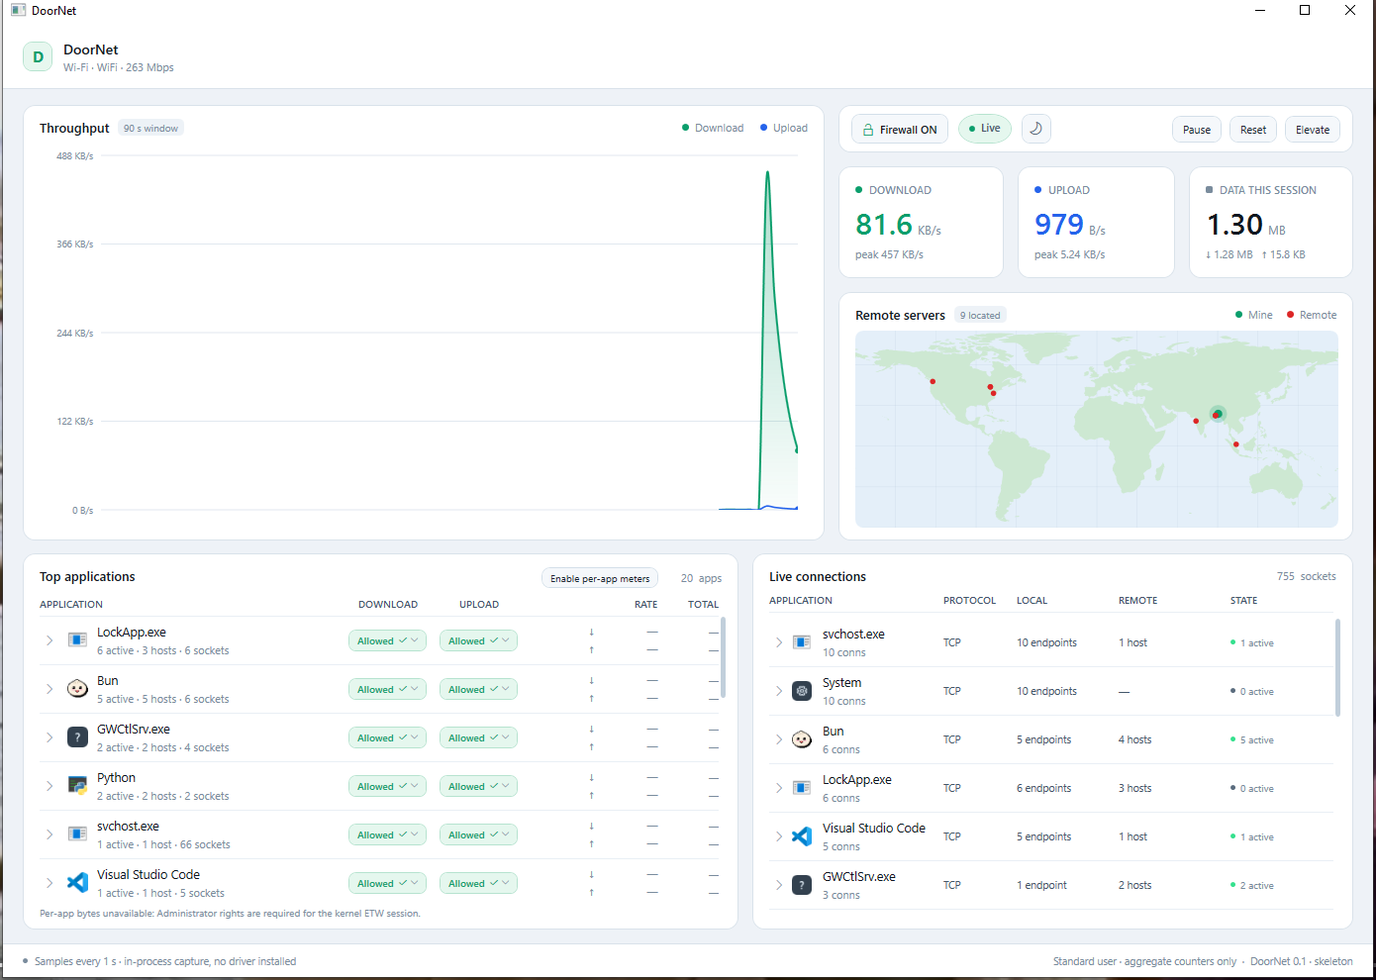
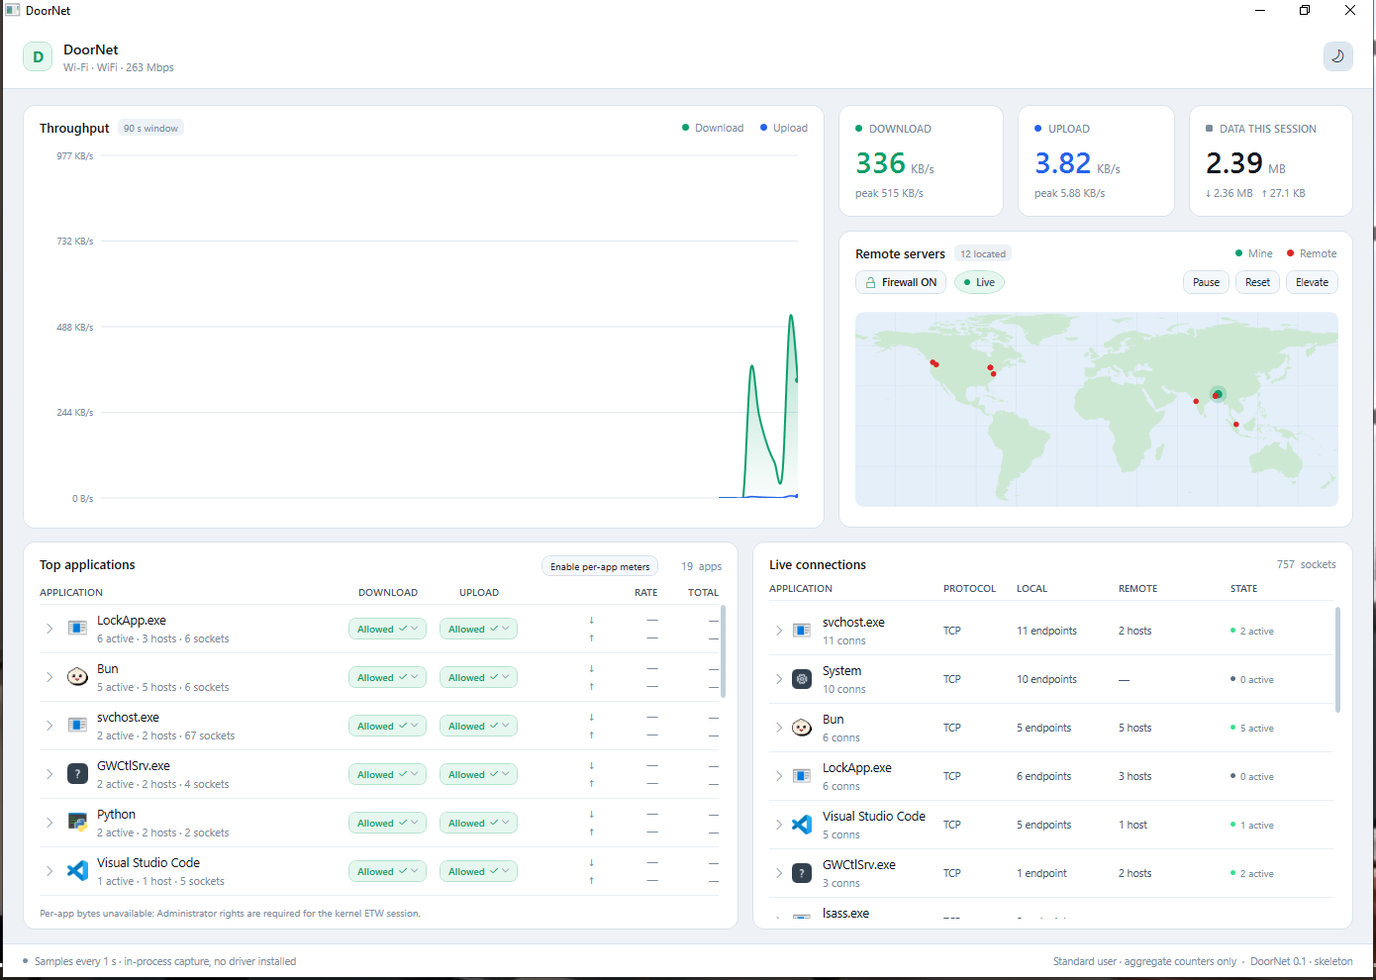
Put the session controls above the map and the theme toggle back in the header
The bridge button row above the meters is gone: the meters return to the top of the right column, and the firewall switch, live pill and pause/reset/elevate actions now sit in a compact toolbar directly above the world map, inside the Remote servers card. The map keeps its centred 360:145 projection with side margins. The theme toggle is back at the far right of the header so it stays reachable from every future tab.

diff --git a/src/DoorNet.App/MainWindow.xaml b/src/DoorNet.App/MainWindow.xaml
@@ -57,6 +57,16 @@
                     </StackPanel>
                 </StackPanel>
 
+                <!-- Theme toggle stays in the header: every tab needs it. -->
+                <Button Grid.Column="2"
+                        Style="{StaticResource IconButton}"
+                        Content="{Binding ThemeGlyph}"
+                        ToolTip="{Binding ThemeTooltip}"
+                        Command="{Binding ToggleThemeCommand}"
+                        AutomationProperties.AutomationId="ThemeToggle"
+                        AutomationProperties.Name="Switch theme"
+                        VerticalAlignment="Center" />
+
             </Grid>
         </Border>
 
@@ -118,128 +128,7 @@
                         <RowDefinition Height="Auto" />
                         <RowDefinition Height="*" />
                     </Grid.RowDefinitions>
-                    <Border Grid.Row="0" Style="{StaticResource Card}" Padding="12,8">
-                        <Grid>
-                            <Grid.ColumnDefinitions>
-                                <ColumnDefinition Width="Auto" />
-                                <ColumnDefinition Width="*" />
-                            </Grid.ColumnDefinitions>
-
-                            <StackPanel Grid.Column="0" Orientation="Horizontal" VerticalAlignment="Center">
-                                <Button Command="{Binding ToggleFirewallCommand}"
-                                        Style="{StaticResource GhostButton}"
-                                        Padding="10,6"
-                                        ToolTip="{Binding FirewallTooltip}">
-                                    <StackPanel Orientation="Horizontal">
-                                        <TextBlock Text="&#xE785;"
-                                                   FontFamily="{StaticResource GlyphFont}"
-                                                   FontSize="12"
-                                                   Margin="0,0,6,0"
-                                                   VerticalAlignment="Center">
-                                            <TextBlock.Style>
-                                                <Style TargetType="TextBlock">
-                                                    <Setter Property="Foreground" Value="{DynamicResource TextMutedBrush}" />
-                                                    <Style.Triggers>
-                                                        <DataTrigger Binding="{Binding IsFirewallEnabled}" Value="True">
-                                                            <Setter Property="Foreground" Value="{DynamicResource DownloadBrush}" />
-                                                        </DataTrigger>
-                                                    </Style.Triggers>
-                                                </Style>
-                                            </TextBlock.Style>
-                                        </TextBlock>
-                                        <TextBlock Text="{Binding FirewallStateText}"
-                                                   FontSize="11"
-                                                   FontWeight="SemiBold"
-                                                   VerticalAlignment="Center">
-                                            <TextBlock.Style>
-                                                <Style TargetType="TextBlock">
-                                                    <Setter Property="Foreground" Value="{DynamicResource TextMutedBrush}" />
-                                                    <Style.Triggers>
-                                                        <DataTrigger Binding="{Binding IsFirewallEnabled}" Value="True">
-                                                            <Setter Property="Foreground" Value="{DynamicResource TextPrimaryBrush}" />
-                                                        </DataTrigger>
-                                                    </Style.Triggers>
-                                                </Style>
-                                            </TextBlock.Style>
-                                        </TextBlock>
-                                    </StackPanel>
-                                </Button>
-
-                                <Border Padding="10,5"
-                                        CornerRadius="20"
-                                        BorderThickness="1"
-                                        Margin="10,0,0,0"
-                                        ToolTip="{Binding LastError}">
-                                    <Border.Style>
-                                        <Style TargetType="Border">
-                                            <Setter Property="Background" Value="{DynamicResource LivePillBrush}" />
-                                            <Setter Property="BorderBrush" Value="{DynamicResource LivePillBorderBrush}" />
-                                            <Style.Triggers>
-                                                <DataTrigger Binding="{Binding IsCapturing}" Value="False">
-                                                    <Setter Property="Background" Value="{DynamicResource PausedPillBrush}" />
-                                                    <Setter Property="BorderBrush" Value="{DynamicResource PausedPillBorderBrush}" />
-                                                </DataTrigger>
-                                            </Style.Triggers>
-                                        </Style>
-                                    </Border.Style>
-                                    <StackPanel Orientation="Horizontal">
-                                        <Ellipse Width="6" Height="6" Margin="0,0,6,0" VerticalAlignment="Center">
-                                            <Ellipse.Style>
-                                                <Style TargetType="Ellipse">
-                                                    <Setter Property="Fill" Value="{DynamicResource DownloadBrush}" />
-                                                    <Style.Triggers>
-                                                        <DataTrigger Binding="{Binding IsCapturing}" Value="False">
-                                                            <Setter Property="Fill" Value="{DynamicResource TextMutedBrush}" />
-                                                        </DataTrigger>
-                                                    </Style.Triggers>
-                                                </Style>
-                                            </Ellipse.Style>
-                                        </Ellipse>
-                                        <TextBlock Text="{Binding StatusText}"
-                                                   FontSize="11"
-                                                   FontWeight="SemiBold"
-                                                   Foreground="{DynamicResource TextSecondaryBrush}" />
-                                    </StackPanel>
-                                </Border>
-
-                                <Button Style="{StaticResource IconButton}"
-                                        Content="{Binding ThemeGlyph}"
-                                        ToolTip="{Binding ThemeTooltip}"
-                                        Command="{Binding ToggleThemeCommand}"
-                                        AutomationProperties.AutomationId="ThemeToggle"
-                                        AutomationProperties.Name="Switch theme"
-                                        Margin="10,0,0,0" />
-                            </StackPanel>
-
-                            <StackPanel Grid.Column="1"
-                                        Orientation="Horizontal"
-                                        HorizontalAlignment="Right"
-                                        VerticalAlignment="Center"
-                                        Margin="10,0,0,0">
-                                <Button Content="{Binding CaptureButtonLabel}"
-                                        Command="{Binding ToggleCaptureCommand}"
-                                        Style="{StaticResource GhostButton}"
-                                        FontSize="11"
-                                        Padding="10,5" />
-                                <Button Content="Reset"
-                                        Command="{Binding ResetSessionCommand}"
-                                        Style="{StaticResource GhostButton}"
-                                        FontSize="11"
-                                        Padding="10,5"
-                                        Margin="8,0,0,0"
-                                        ToolTip="Reset the session totals" />
-                                <Button Content="Elevate"
-                                        Command="{Binding RestartElevatedCommand}"
-                                        Style="{StaticResource GhostButton}"
-                                        FontSize="11"
-                                        Padding="10,5"
-                                        Margin="8,0,0,0"
-                                        ToolTip="Restart with administrator rights to measure per-app byte usage"
-                                        Visibility="{Binding CanOfferElevation, Converter={StaticResource BoolToVis}}" />
-                            </StackPanel>
-                        </Grid>
-                    </Border>
-                    <Grid Grid.Row="1" Margin="0,14,0,0">
+                    <Grid Grid.Row="0">
                     <Grid.ColumnDefinitions>
                         <ColumnDefinition Width="*" />
                         <ColumnDefinition Width="*" />
@@ -335,9 +224,10 @@
                             </Border>
                 </Grid>
 
-                    <Border Grid.Row="2" Style="{StaticResource Card}" Margin="0,14,0,0" MinHeight="250" Padding="16,13,14,12">
+                    <Border Grid.Row="1" Style="{StaticResource Card}" Margin="0,14,0,0" MinHeight="300" Padding="16,13,14,12">
                         <Grid>
                             <Grid.RowDefinitions>
+                                <RowDefinition Height="Auto" />
                                 <RowDefinition Height="Auto" />
                                 <RowDefinition Height="*" />
                             </Grid.RowDefinitions>
@@ -357,7 +247,114 @@
                                 </StackPanel>
                             </Grid>
     
-                            <controls:WorldMapView Grid.Row="1"
+                            <!-- Session controls sit above the world, using the card's spare width -->
+                            <Grid Grid.Row="1" Margin="0,9,0,2">
+                                <StackPanel Orientation="Horizontal" VerticalAlignment="Center">
+                                    <Button Command="{Binding ToggleFirewallCommand}"
+                                            Style="{StaticResource GhostButton}"
+                                            FontSize="10.5"
+                                            Padding="9,4"
+                                            ToolTip="{Binding FirewallTooltip}">
+                                        <StackPanel Orientation="Horizontal">
+                                            <TextBlock Text="&#xE785;"
+                                                       FontFamily="{StaticResource GlyphFont}"
+                                                       FontSize="11"
+                                                       Margin="0,0,6,0"
+                                                       VerticalAlignment="Center">
+                                                <TextBlock.Style>
+                                                    <Style TargetType="TextBlock">
+                                                        <Setter Property="Foreground" Value="{DynamicResource TextMutedBrush}" />
+                                                        <Style.Triggers>
+                                                            <DataTrigger Binding="{Binding IsFirewallEnabled}" Value="True">
+                                                                <Setter Property="Foreground" Value="{DynamicResource DownloadBrush}" />
+                                                            </DataTrigger>
+                                                        </Style.Triggers>
+                                                    </Style>
+                                                </TextBlock.Style>
+                                            </TextBlock>
+                                            <TextBlock Text="{Binding FirewallStateText}"
+                                                       FontSize="10.5"
+                                                       FontWeight="SemiBold"
+                                                       VerticalAlignment="Center">
+                                                <TextBlock.Style>
+                                                    <Style TargetType="TextBlock">
+                                                        <Setter Property="Foreground" Value="{DynamicResource TextMutedBrush}" />
+                                                        <Style.Triggers>
+                                                            <DataTrigger Binding="{Binding IsFirewallEnabled}" Value="True">
+                                                                <Setter Property="Foreground" Value="{DynamicResource TextPrimaryBrush}" />
+                                                            </DataTrigger>
+                                                        </Style.Triggers>
+                                                    </Style>
+                                                </TextBlock.Style>
+                                            </TextBlock>
+                                        </StackPanel>
+                                    </Button>
+
+                                    <Border Padding="9,4"
+                                            CornerRadius="20"
+                                            BorderThickness="1"
+                                            Margin="8,0,0,0"
+                                            ToolTip="{Binding LastError}">
+                                        <Border.Style>
+                                            <Style TargetType="Border">
+                                                <Setter Property="Background" Value="{DynamicResource LivePillBrush}" />
+                                                <Setter Property="BorderBrush" Value="{DynamicResource LivePillBorderBrush}" />
+                                                <Style.Triggers>
+                                                    <DataTrigger Binding="{Binding IsCapturing}" Value="False">
+                                                        <Setter Property="Background" Value="{DynamicResource PausedPillBrush}" />
+                                                        <Setter Property="BorderBrush" Value="{DynamicResource PausedPillBorderBrush}" />
+                                                    </DataTrigger>
+                                                </Style.Triggers>
+                                            </Style>
+                                        </Border.Style>
+                                        <StackPanel Orientation="Horizontal">
+                                            <Ellipse Width="6" Height="6" Margin="0,0,6,0" VerticalAlignment="Center">
+                                                <Ellipse.Style>
+                                                    <Style TargetType="Ellipse">
+                                                        <Setter Property="Fill" Value="{DynamicResource DownloadBrush}" />
+                                                        <Style.Triggers>
+                                                            <DataTrigger Binding="{Binding IsCapturing}" Value="False">
+                                                                <Setter Property="Fill" Value="{DynamicResource TextMutedBrush}" />
+                                                            </DataTrigger>
+                                                        </Style.Triggers>
+                                                    </Style>
+                                                </Ellipse.Style>
+                                            </Ellipse>
+                                            <TextBlock Text="{Binding StatusText}"
+                                                       FontSize="10.5"
+                                                       FontWeight="SemiBold"
+                                                       Foreground="{DynamicResource TextSecondaryBrush}" />
+                                        </StackPanel>
+                                    </Border>
+                                </StackPanel>
+
+                                <StackPanel Orientation="Horizontal"
+                                            HorizontalAlignment="Right"
+                                            VerticalAlignment="Center">
+                                    <Button Content="{Binding CaptureButtonLabel}"
+                                            Command="{Binding ToggleCaptureCommand}"
+                                            Style="{StaticResource GhostButton}"
+                                            FontSize="10.5"
+                                            Padding="9,4" />
+                                    <Button Content="Reset"
+                                            Command="{Binding ResetSessionCommand}"
+                                            Style="{StaticResource GhostButton}"
+                                            FontSize="10.5"
+                                            Padding="9,4"
+                                            Margin="6,0,0,0"
+                                            ToolTip="Reset the session totals" />
+                                    <Button Content="Elevate"
+                                            Command="{Binding RestartElevatedCommand}"
+                                            Style="{StaticResource GhostButton}"
+                                            FontSize="10.5"
+                                            Padding="9,4"
+                                            Margin="6,0,0,0"
+                                            ToolTip="Restart with administrator rights to measure per-app byte usage"
+                                            Visibility="{Binding CanOfferElevation, Converter={StaticResource BoolToVis}}" />
+                                </StackPanel>
+                            </Grid>
+
+                            <controls:WorldMapView Grid.Row="2"
                                                    Markers="{Binding MapMarkers}"
                                                    Margin="0,8,0,0"
                                                    LandBrush="{DynamicResource MapLandBrush}"

diff --git a/src/DoorNet.App/Controls/WorldMapView.cs b/src/DoorNet.App/Controls/WorldMapView.cs
@@ -98,32 +98,22 @@ public sealed class WorldMapView : FrameworkElement
 
         var dpi = VisualTreeHelper.GetDpi(this).PixelsPerDip;
 
-        // Fill the card edge to edge. Rather than letterboxing the fixed world band, derive
-        // the visible latitudes from the aspect ratio - a wider card trades polar margin for
-        // equatorial detail, so there is never dead space left or right of the map.
-        var mapRect = new Rect(0, 0, width, height);
-        var latSpan = Math.Clamp(360.0 * height / width, 70, FixedLatTop - FixedLatBottom);
-        var latBottom = Math.Max(-58.0, FixedLatBottom);
-        var latTop = latBottom + latSpan;
-        if (latTop > FixedLatTop)
-        {
-            latTop = FixedLatTop;
-            latBottom = latTop - latSpan;
-        }
+        // Keep the world's 360:145 band intact and centre it, so the card carries the same
+        // margins on the left and right that the rest of the dashboard uses.
+        var mapWidth = Math.Min(width, height * (360.0 / (FixedLatTop - FixedLatBottom)));
+        var mapHeight = mapWidth * ((FixedLatTop - FixedLatBottom) / 360.0);
+        var left = (width - mapWidth) / 2;
+        var top = (height - mapHeight) / 2;
+        var mapRect = new Rect(left, top, mapWidth, mapHeight);
 
         dc.DrawRoundedRectangle(OceanBrush, null, mapRect, 8, 8);
 
         dc.PushClip(new RectangleGeometry(mapRect, 8, 8));
-        DrawGraticule(dc, mapRect, latTop, latBottom);
+        DrawGraticule(dc, mapRect, FixedLatTop, FixedLatBottom);
 
-        var scaleY = (FixedLatTop - FixedLatBottom) / latSpan;
-        var offsetY = (FixedLatTop - latTop) / latSpan;
-
-        dc.PushTransform(new ScaleTransform(width, height));
-        dc.PushTransform(new TranslateTransform(0, -offsetY));
-        dc.PushTransform(new ScaleTransform(1, scaleY));
+        dc.PushTransform(new TranslateTransform(left, top));
+        dc.PushTransform(new ScaleTransform(mapWidth, mapHeight));
         dc.DrawGeometry(LandBrush, CoastPen, Land);
-        dc.Pop();
         dc.Pop();
         dc.Pop();
         dc.Pop();
@@ -134,11 +124,8 @@ public sealed class WorldMapView : FrameworkElement
         {
             foreach (var marker in markers)
             {
-                if (marker.Latitude > latTop || marker.Latitude < latBottom)
-                    continue;
-
-                var x = (marker.Longitude + 180) / 360 * width;
-                var y = (latTop - marker.Latitude) / latSpan * height;
+                var x = left + ((marker.Longitude + 180) / 360 * mapWidth);
+                var y = top + ((FixedLatTop - Math.Clamp(marker.Latitude, FixedLatBottom, FixedLatTop)) / (FixedLatTop - FixedLatBottom) * mapHeight);
                 var position = new Point(x, y);
 
                 if (marker.IsLocal)

diff --git a/docs/ARCHITECTURE.md b/docs/ARCHITECTURE.md
@@ -71,7 +71,7 @@ v1 filters adapters by type and status; v2 adds per-adapter selection in Setting
 
 - **Current state:** one process. When launched elevated, it opens the kernel ETW session
   itself (`EtwPerAppUsageSource`); unelevated, the source reports why it is unavailable and
-  the session bar offers **Elevate** (UAC relaunch). This is the fastest path to a
+  the map toolbar offers **Elevate** (UAC relaunch). This is the fastest path to a
   working feature and is fine for a single-user desktop app.
 - **Kernel provider gotcha:** `TraceEventSession.EnableKernelProvider` returns `false` on
   the *normal* success path for a `NT Kernel Logger` session (the bool is only `true` when
@@ -149,10 +149,10 @@ Dark, dense, instrument-panel feel — closer to Task Manager's Performance tab 
 consumer dashboard. No GlassWire visual language (its palette, iconography, layout and
 branding are not reused).
 
-- Header: product mark and adapter summary, with the space to its right reserved for the
-  navigation tabs.
-- Session bar (right column, above the meters): firewall master switch, live/paused pill,
-  theme toggle, and capture/reset/elevate actions.
+- Header: product mark, adapter summary, and the theme toggle pinned to the far right so it
+  survives tab switches; the stretch between them is reserved for the navigation tabs.
+- Map card: title and legend row, then a session toolbar (firewall master switch, live/paused
+  pill, capture/reset/elevate actions) directly above the world map.
 - Three stat tiles: download rate, upload rate, session total. Large tabular numerals.
 - Main chart: 90 s dual-series area chart, auto-scaled, drawn natively (no chart library).
 - Split pane: top applications (left) and live connections (right, sortable grid).

diff --git a/README.md b/README.md
@@ -105,7 +105,7 @@ Windows Firewall is stateful, so blocking **Out** also stops new downloads (the 
 never leave), while blocking **In** stops unsolicited incoming traffic — downloads the app
 initiated still return. Allow both directions to restore an app completely.
 
-The session bar above the meters carries the **master switch** - `Firewall ON` / `Firewall OFF`:
+The toolbar above the world map carries the **master switch** - `Firewall ON` / `Firewall OFF`:
 
 - **ON** arms every DoorNet rule; individual blocks take effect immediately.
 - **OFF** leaves the rules defined but *disabled* (`Enabled: No`), so all apps can connect
@@ -166,7 +166,7 @@ milestones, elevation model, packaging and risk list: **[docs/ARCHITECTURE.md](d
   `%LocalAppData%\DoorNet\geo-cache.json`. Private, loopback, link-local and reserved
   addresses are filtered client-side and never leave the machine; only public remote IPs are
   sent to the service.
-- **Themes:** the session bar's sun/moon button switches light/dark instantly and the choice is
+- **Themes:** the header's sun/moon button switches light/dark instantly (it stays visible on every tab) and the choice is
   saved to `%LocalAppData%\DoorNet\settings.json`. All UI colours are semantic brushes in
   `Styles/Palette.*.xaml`; the window repaints in place without a restart.
 - **Windows 10 title bar:** `DWMWA_CAPTION_COLOR` is Windows 11-only, and Windows 10 ignores
